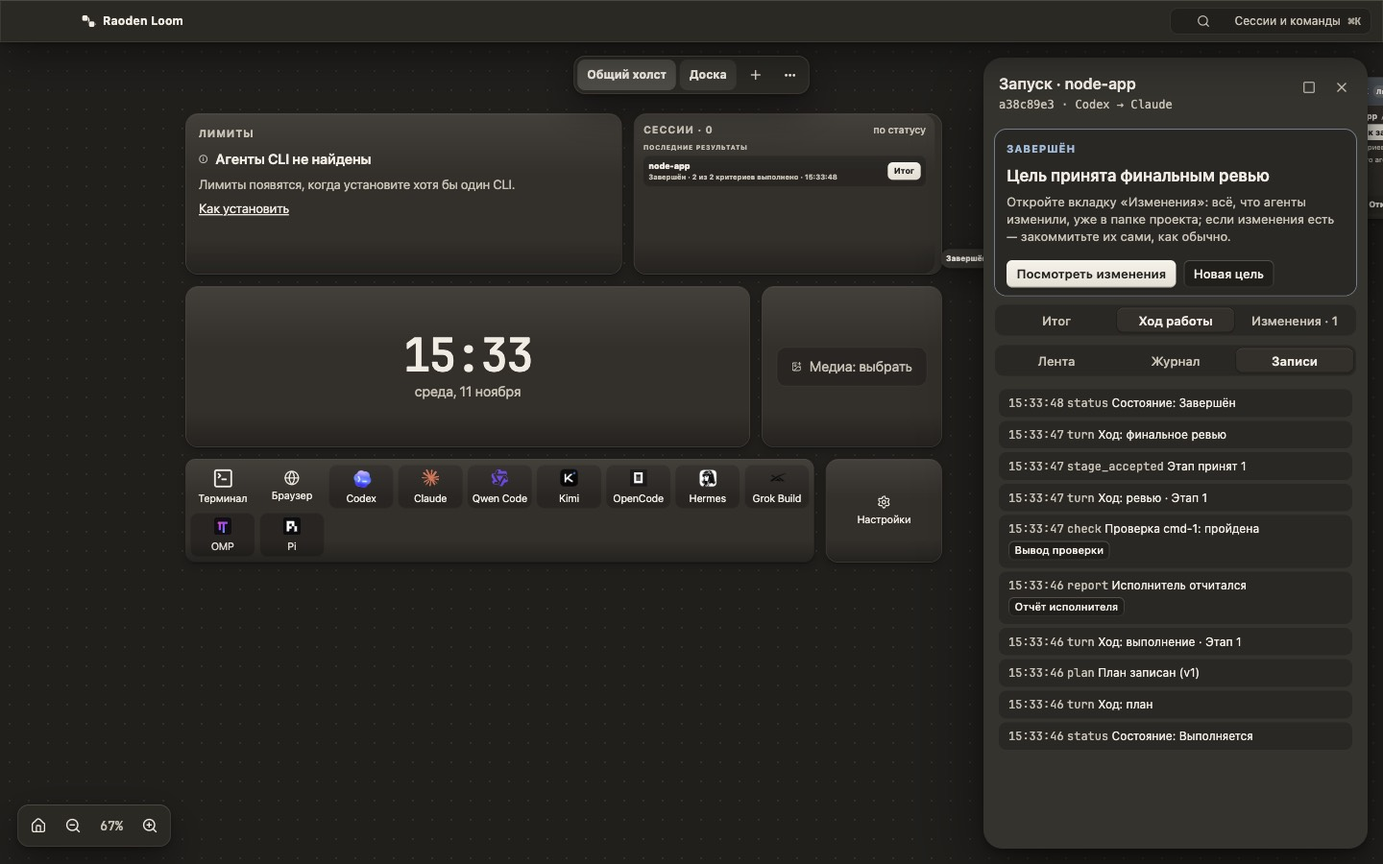
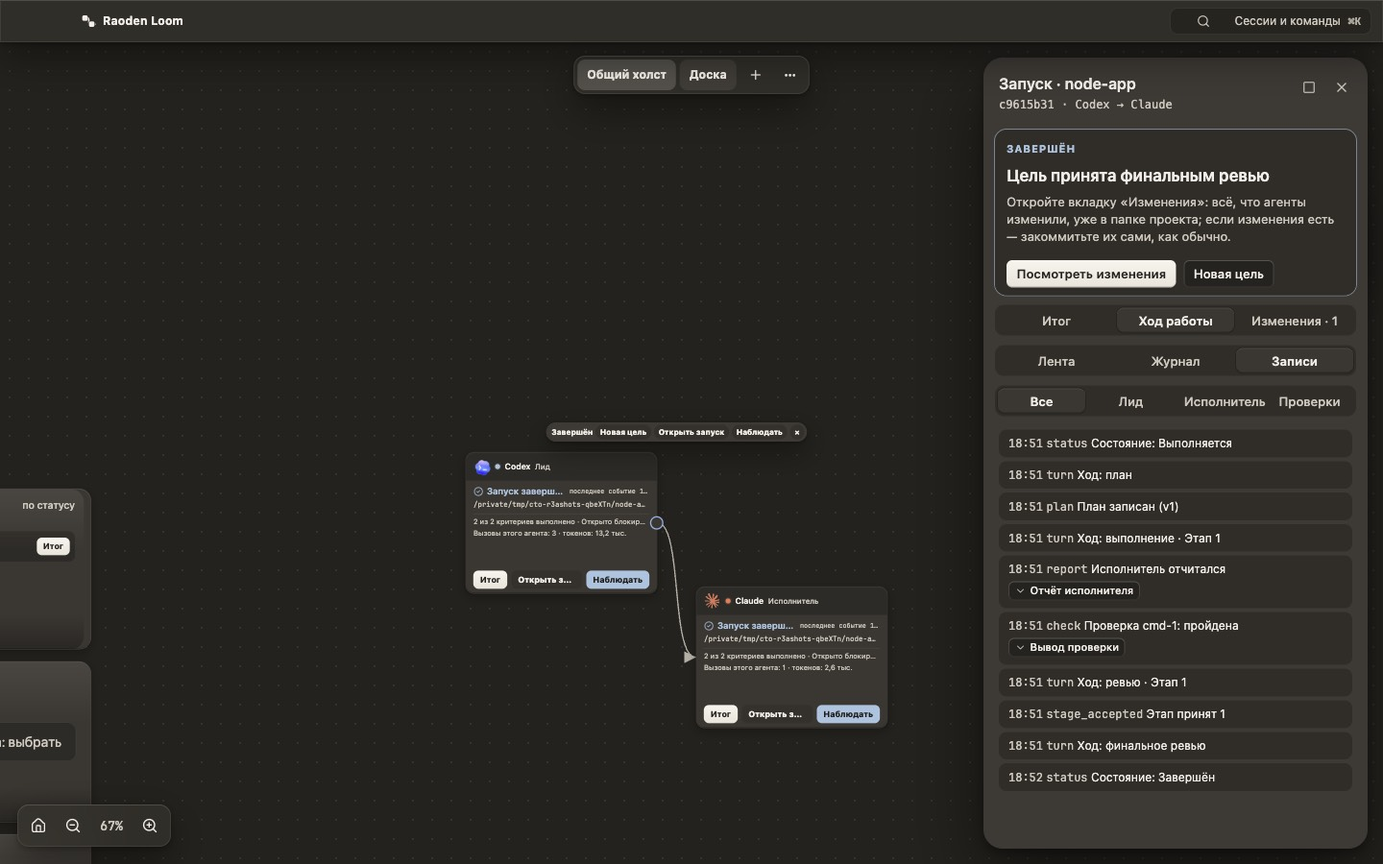
feat(redesign): R5h-A - stage lists under the pause zones, records in order with a role filter, the feed without the application's own lines, rounds and compact time in the limit table, exit code of a failed run; frames show the loaded result and changes

diff --git a/src/renderer/src/features/orchestration/RunPanel.tsx b/src/renderer/src/features/orchestration/RunPanel.tsx
@@ -52,6 +52,7 @@ import {
   finishStatus,
   formatText,
   historyLines,
+  lineRole,
   outcomeOf,
   parsePlan,
   causeText,
@@ -87,7 +88,7 @@ import {
   type RunDigest,
   type ResultFacts
 } from "./runModel";
-import { duration, findingsLine, finishText, isServiceEntry, outcomeKey, personDecisionsLine, readJournal, reportParts, saidKey, summaryModel, type ReportParts, type RunJournalState, type TextRef } from "./runStatus";
+import { duration, spanText, findingsLine, finishText, isServiceEntry, outcomeKey, personDecisionsLine, readJournal, reportParts, saidKey, summaryModel, type ReportParts, type RunJournalState, type TextRef } from "./runStatus";
 import { pickDocs, planDoc, readCreatedFile, resultDoc, toMarkdown, type CreatedDocs, type CreatedFile, type DocInput, type Loaded, type PlanEntry, type PlanJson, type RunDoc } from "./runDocs";
 import type { PanelRole, PanelState } from "./useAgentCanvasUi";
 import type { PanelMode, PanelSection, PanelTab, PanelView } from "./panelTabs";
@@ -241,7 +242,7 @@ function LineDetails({ runId, text, dropped, locale }: { runId: string; text: Li
   return (
     <div className="orch-details">
       <button type="button" className="orch-details__toggle" aria-expanded={open} onClick={toggle}>
-        {t(locale, (open ? "orchHide" : `orchShow_${text.kind}`) as TranslationKey)}
+        <UiIcon name="chevron" size={12} />{t(locale, (open ? "orchHide" : `orchShow_${text.kind}`) as TranslationKey)}
       </button>
       {open && (
         <div className="orch-details__body" data-details-state={!text.ref ? "missing" : state?.kind ?? "loading"}>
@@ -282,8 +283,10 @@ function phaseText(locale: LocaleId, p: ParticipantState, now: number): string {
 
 // ---------- activity feed ----------
 
-const LOG_KINDS = new Set(["stderr", "error", "process_started", "process_exited", "usage", "truncated", "session", "check_output", "turn_finished", "refusal"]);
-export const FEED_KINDS = new Set(["task_sent", "process_started", "process_exited", "session", "thinking", "message", "tool_started", "tool_finished", "file_read",
+const LOG_KINDS = new Set(["task_sent", "stderr", "error", "process_started", "process_exited", "usage", "truncated", "session", "check_output", "turn_finished", "refusal"]);
+// R5h-A (mock-up 20): the feed has the work (thoughts, tools, files, messages) and what needs the person; the application's own lines
+// (task sent, process started and exited, session) are in «Журнал»
+export const FEED_KINDS = new Set(["thinking", "message", "tool_started", "tool_finished", "file_read",
   "file_changed", "subagent", "refusal", "error", "turn_finished", "check_started", "check_finished", "status", "truncated",
   "permission_requested", "permission_decided", "permission_applied", "prepare_started", "prepare_finished", "external_action", "report_note"]);
 
@@ -712,8 +715,8 @@ function Section({ id, title, aside, attrs, children }: { id: string; title?: st
   );
 }
 // a row of a plate: the name on the left, the value (the same line) on the right
-function Row({ label, mark, dd, children, attrs }: { label: React.ReactNode; mark?: "done" | "idle" | "failed" | "paused"; dd?: Record<string, string | undefined>; children?: React.ReactNode; attrs?: Record<string, string | undefined> }): React.JSX.Element {
-  return <div className="orch-kv__row" {...attrs}><dt>{mark && <UiIcon name={`status-${mark}`} size={14} />}{label}</dt><dd {...dd}>{children}</dd></div>;
+function Row({ label, mark, dd, children, attrs }: { label: React.ReactNode; mark?: "done" | "idle" | "failed" | "paused" | "waiting"; dd?: Record<string, string | undefined>; children?: React.ReactNode; attrs?: Record<string, string | undefined> }): React.JSX.Element {
+  return <div className="orch-kv__row" {...attrs}><dt>{mark && <UiIcon name={mark === "waiting" ? "bell" : `status-${mark}`} size={14} />}{label}</dt><dd {...dd}>{children}</dd></div>;
 }
 
 // Journal v2, A2 (journal-v2-format.md §2.7): each requirement with the conditions that prove it, the status of each and
@@ -827,10 +830,11 @@ const fill = (s: string, vars: Record<string, string | number>): string => Objec
 // D-018: the summary as the mock-ups 13 and 17 draw it — the plates of what the run ended with (stages, checks, the review),
 // then the blocks: result facts, plan, decisions on findings, the people / time (the panel's `middle`), the result. Only what the
 // journal has: a block with nothing to say is not drawn.
-function RunSummary({ orch, runId, view, records, locale, incomplete, facts, onOpen, middle, alerts }: {
+function RunSummary({ orch, runId, view, records, locale, incomplete, facts, onOpen, middle, alerts, list }: {
   orch: Orchestration; runId: string; view: OrchestrationRunView; records: readonly OrchestrationHistoryRecord[];
   locale: LocaleId; incomplete: boolean; facts: ResultFacts;
   onOpen(section: "plan" | "result"): void; middle?: React.ReactNode; alerts?: React.ReactNode;
+  list?: boolean; // R5h-A (mock-ups 02, 03, 07): only the list of the stages with their states, for the work tab of a paused run
 }): React.JSX.Element {
   // Every plan's titles (a replan names the stages from its firstStage on), read through the shared text cache.
   const planShas = useMemo(() => records.filter((r) => r.type === "plan.recorded")
@@ -883,26 +887,44 @@ function RunSummary({ orch, runId, view, records, locale, incomplete, facts, onO
     return m.checks.filter((c) => c.status !== "passed" && c.status !== "not_run" && c.status !== "running")
       .map((c) => ({ id: c.id, title: c.title, status: c.status, cls: progress?.checks.find((x) => x.id === c.id)?.class ?? null, reason: reasons.get(c.id) ?? null }));
   }, [m.checks, records, progress?.checks]);
+  // R5h-A (D-026, mock-ups 02, 03, 05, 07, 12, 14): under the zone of a pause, where the run stands — the plan, the stages up to the
+  // one that waits, the commands asked, the check the sandbox refused; only what the journal has
+  const waiting = !finished && (view.status === "paused" || !!view.permission);
+  const waitKey = view.permission ? (view.permission.kind === "question" ? "orchRowWait_answer" : "orchRowWait_you") : view.status === "paused" ? "orchRowWait_paused" : view.status === "failed" ? "orchRowWait_failed" : null;
+  const stageRows = (): React.ReactNode => {
+    const stages = m.stages ?? [];
+    const current = stages.find((st) => st.n === view.stage) ?? stages.find((st) => st.state !== "done");
+    const upTo = current ? stages.filter((st) => st.n <= current.n) : stages;
+    return <>
+      {stages.length > 0 && !stages.some((st) => st.state === "done") && <Row label={t(locale, "orchRowPlanApproved")} mark="done" attrs={{ "data-pause-row": "plan" }} />}
+      {upTo.map((st) => st === current && waitKey
+        ? <Row key={st.n} label={`${t(locale, "orchStage")} ${st.n}${st.title ? ` · ${st.title}` : ""}`} mark={waitKey === "orchRowWait_paused" ? "paused" : waitKey === "orchRowWait_failed" ? "failed" : "waiting"} attrs={{ "data-pause-row": "stage", "data-stage-n": String(st.n) }}>{t(locale, waitKey)}</Row>
+        : <Row key={st.n} label={`${t(locale, "orchStage")} ${st.n}${st.title ? ` · ${st.title}` : ""}`} mark={st.state === "done" ? "done" : "idle"} attrs={{ "data-pause-row": "stage", "data-stage-n": String(st.n) }} />)}
+    </>;
+  };
+  const refusedRows = (): React.ReactNode => (failedChecks.length > 0
+    ? failedChecks.map((c) => <Row key={c.id} label={c.title} mark="failed" attrs={{ "data-sum-failed-check": c.id, "data-check-class": c.cls ?? undefined }}>{[c.cls ? tr(locale, `orchClass_${c.cls}`) : null, c.reason && known(locale, `orchCheckReason_${c.reason}`) ? tr(locale, `orchCheckReason_${c.reason}`) : c.reason].filter(Boolean).join(" · ")}</Row>)
+    : view.refused ? <Row label={view.refused.command} mark="failed" attrs={{ "data-sum-failed-check": view.refused.checkId }}>{tr(locale, "orchClass_sandbox")}</Row> : null);
+  const ownList = waiting && ["awaiting_checks_decision", "check_needs_permissions", "awaiting_finish_confirmation"].includes(view.reason ?? ""); // drawn by their rows only (mock-ups 05, 12, 14)
+  const shownRows = view.reason === "awaiting_checks_decision" && ownList
+    ? <><Row label={t(locale, "orchRowPlanApproved")} mark="done" attrs={{ "data-pause-row": "plan" }} /><Row label={t(locale, "orchRowChecksProposal")} mark="waiting" attrs={{ "data-pause-row": "checks" }}>{t(locale, "orchRowWait_decision")}</Row></>
+    : refusedRows();
+  const rowsKind = view.reason === "awaiting_checks_decision" && ownList ? "pause" : "failed-checks";
+  if (list) return <dl className="orch-kv orch-kv--pause" data-orch-pause-list>{stageRows()}</dl>;
   const person = personDecisionsLine(locale, view);
   const hasPlanDoc = planShas.length > 0 || records.some((r) => r.type.startsWith("decomposition."));
   return (
     <div className="orch-summary-view" data-orch-run-summary data-outcome={outcome} data-incomplete={incomplete ? "yes" : "no"}>
-      <dl className="orch-kv orch-kv--status" data-sum="outcome">
+      {!(ownList && view.reason !== "awaiting_finish_confirmation") && <dl className="orch-kv orch-kv--status" data-sum="outcome">
         {stagesText && <Row label={t(locale, "orchSum_stages")} mark={m.complete && m.stageCounts && m.stageCounts.done === m.stageCounts.total ? "done" : "idle"}
           dd={{ "data-sum-stage-count": "", "data-partial": m.complete ? undefined : "yes" }}>{stagesText}</Row>}
         {checksText && <Row label={t(locale, "orchSum_checks")} mark={m.checks.length === 0 ? "idle" : m.complete && m.checkCounts.passed === m.checkCounts.total ? "done" : "idle"}
           dd={{ "data-sum-check-count": "", "data-checks-known": m.checksKnown ? "yes" : "no", ...(outcome === "completed_no_checks" ? { "data-sum-no-checks": "" } : {}) }}>{checksText}</Row>}
         {finished && <Row label={reviewed ? t(locale, "orchSumReviewFinal") : t(locale, "orchResult")} mark={reviewed ? "done" : outcome === "failed" ? "failed" : outcome === "paused" || outcome === "active" ? "paused" : "idle"}
           dd={{ "data-sum-outcome": outcome, "data-orch-proof": outcome, "data-orch-result": m.finalVerdict ?? undefined }}>{reviewed ? t(locale, "orchSumAccepted") : said(`orchSumOutcome_${outcome}`)}</Row>}
-      </dl>
-      {failedChecks.length > 0 && (
-        <ul className="orch-sum__failed" data-sum-failed-checks>
-          {failedChecks.map((c) => (
-            <li key={c.id} className="orch-hint" data-sum-failed-check={c.id} data-check-class={c.cls ?? undefined}>
-              {c.title} — {tr(locale, `orchCheck_${c.status}`)}{c.cls ? ` · ${tr(locale, `orchClass_${c.cls}`)}` : ""}{c.reason ? ` · ${c.reason}` : ""}
-            </li>
-          ))}
-        </ul>
+      </dl>}
+      {shownRows && (ownList ? view.reason !== "awaiting_finish_confirmation" : failedChecks.length > 0) && (
+        <dl className="orch-kv orch-kv--pause" data-sum={rowsKind} data-sum-failed-checks={rowsKind === "failed-checks" ? "" : undefined}>{shownRows}</dl>
       )}
       {person && <p className="orch-hint orch-hint--warn" data-sum-person>{person}</p>}
 
@@ -926,7 +948,7 @@ function RunSummary({ orch, runId, view, records, locale, incomplete, facts, onO
         </Section>
       )}
 
-      {((m.stages && m.stages.length > 0) || progress?.conditions || hasPlanDoc) && ( // a split that was refused has no stages, but its reasons are in the plan document
+      {!ownList && ((m.stages && m.stages.length > 0) || progress?.conditions || hasPlanDoc) && ( // a split that was refused has no stages, but its reasons are in the plan document
         <Section id="stages" title={finished || !m.stages?.length ? t(locale, "orchPlan") : undefined} aside={(finished || !m.stages?.length) &&
           <span className="orch-sum-block__aside">
             {planShas.map((sha, i) => <span key={sha} className={`orch-chip${i === planShas.length - 1 ? " orch-chip--on" : ""}`}>v{i + 1}</span>)}
@@ -1326,11 +1348,11 @@ function costText(locale: LocaleId, cost: Cost, reviewer: boolean): string {
 
 // UX audit 2026-10-05, Н7: the limit pause — each limit's value and what is used of it (limitRows), the new value with
 // its unit, and «Raise the limit and continue» as the main action. The limit the run stopped at is chosen first.
-function RaiseLimit({ locale, cost, budget, sending, onRaise }: {
-  locale: LocaleId; cost: Cost | null; budget: NonNullable<NonNullable<OrchestrationRunView["progress"]>["budget"]> | null; sending: boolean;
+function RaiseLimit({ locale, cost, budget, rounds, sending, onRaise }: {
+  locale: LocaleId; cost: Cost | null; rounds: number | null; budget: NonNullable<NonNullable<OrchestrationRunView["progress"]>["budget"]> | null; sending: boolean;
   onRaise(kind: OrchestrationLimitKind, value: number): void;
 }): React.JSX.Element {
-  const rows = cost && budget ? limitRows(cost, budget) : [];
+  const rows = cost && budget ? limitRows(cost, budget, rounds) : [];
   const nowOf = (k: OrchestrationLimitKind) => rows.find((r) => r.kind === k)?.now ?? null;
   const proposed = (k: OrchestrationLimitKind) => { const c = nowOf(k); return c !== null ? String(Math.ceil(c * 1.5)) : ""; }; // half as much again
   const [kind, setKind] = useState<OrchestrationLimitKind>(cost?.reached ?? "turns");
@@ -1347,9 +1369,9 @@ function RaiseLimit({ locale, cost, budget, sending, onRaise }: {
     <div className="orch-limit" data-orch-limit>
       {rows.length > 0 && (
         <dl className="orch-kv orch-limit__table">
-          {rows.filter((r) => r.reached || r.kind === "turns" || r.kind === "runMs" || (r.used ?? 0) > 0).map((r) => {
+          {[...rows.filter((r) => r.reached || r.kind === "turns" || r.kind === "runMs" || (r.used ?? 0) > 0)].sort((a, b) => ["turns", "roundsPerStage", "runMs", "replans"].indexOf(a.kind) - ["turns", "roundsPerStage", "runMs", "replans"].indexOf(b.kind)).map((r) => { // mock-up 07: turns, rounds, time
             const time = r.kind === "runMs"; // mock-up 07: the time as «1 ч 12 м / 4 ч»
-            const fmt = (n: number) => (time ? duration(locale, n * 60_000) : String(n));
+            const fmt = (n: number) => (time ? spanText(locale, n * 60_000) : String(n));
             return (
               <Row key={r.kind} label={time ? t(locale, "orchSumTime") : t(locale, `orchLimit_${r.kind}` as TranslationKey)}
                 attrs={{ "data-limit-kind": r.kind, "data-limit-reached": r.reached ? "" : undefined, className: `orch-kv__row${r.reached ? " orch-limit__reached" : ""}` }}>
@@ -1398,7 +1420,9 @@ function CurrentRunPanel({ orch, runId, locale, panel, onClose, onNewGoal, onPro
   const planTotal = plan.length ? planFirst - 1 + plan.length : 0;
   const goal = useMemo(() => { try { return goalText ? JSON.parse(goalText) as { limits?: Record<string, number>; createdAt?: number } : null; } catch { return null; } }, [goalText]);
   const reportedDone = useMemo(() => { try { const r = reportText ? JSON.parse(reportText) as { done?: unknown } : null; return typeof r?.done === "boolean" ? r.done : null; } catch { return null; } }, [reportText]);
-  const lines = useMemo(() => historyLines(records).reverse(), [records]);
+  // mock-up 07: the rounds the stage in hand has used (the journal counts them per turn)
+  const stageRounds = useMemo(() => records.reduce((max, r) => (r.type === "orch.turn" && r.data.stage === view?.stage && typeof r.data.round === "number" ? Math.max(max, r.data.round) : max), 0) || null, [records, view?.stage]);
+  const lines = useMemo(() => historyLines(records), [records]); // mock-up 20: in the order they happened
   const now = useNow();
   const [expanded, setExpanded] = useState(false);
   // The run ended while the person watched another tab: offer the summary, never switch or scroll by itself.
@@ -1650,12 +1674,15 @@ function CurrentRunPanel({ orch, runId, locale, panel, onClose, onNewGoal, onPro
   // a newer version's run: its changes are not read here (main refuses them), so there is no tab for them
   const tabs: PanelTab[] = view?.newer ? ["summary", "work"] : ["summary", "work", "changes"];
   const curTab: PanelTab = tabs.includes(panel.tab) ? panel.tab : "summary"; // a readable newer run has no Changes tab
-  const roleFilter = useCallback((e: OrchestrationActivityEntry) => panel.role === "all" ? FEED_KINDS.has(e.kind)
+  const roleFilter = useCallback((e: OrchestrationActivityEntry) => (e.kind === "turn_finished" && e.text === "completed") ? false : panel.role === "all" ? FEED_KINDS.has(e.kind)
     : panel.role === "check"
     ? (e.role === "check" || e.role === "run") && FEED_KINDS.has(e.kind)
     : (e.role === panel.role && FEED_KINDS.has(e.kind)) || (e.role === "run" && e.kind === "status"), [panel.role]);
   const logFilter = useCallback((e: OrchestrationActivityEntry) => (panel.role === "all" || (panel.role === "check" ? e.role === "check" : e.role === panel.role))
     && (LOG_KINDS.has(e.kind) || (e.kind === "tool_finished" && typeof e.detail?.output === "string")), [panel.role]);
+  // R5h-A (mock-ups 02, 03, 07, 18): a run that waits for the person, is paused or failed: the stages and where it stands over the feed
+  const stagesAbove = (!!view?.permission || view?.status === "paused" || view?.status === "failed") && records.length > 0;
+  const feedEmpty = !activity.entries.some(roleFilter);
   const selected = panel.role === "lead" ? lead : panel.role === "executor" ? executor : panel.role === "reviewer" ? reviewer : null;
 
   // R5b: the header names the project and the pair of agents (lead -> executor) of the link the run belongs to
@@ -1693,7 +1720,7 @@ function CurrentRunPanel({ orch, runId, locale, panel, onClose, onNewGoal, onPro
       </Section>
       <Section id="limits" title={t(locale, "orchSumTimeEnv")} attrs={{ "data-orch-limits": "" }}>
         <dl className="orch-kv">
-          {d.createdAt && <Row label={t(locale, "orchSumTime")}>{duration(locale, (busy ? now : Date.parse(lines[0]?.ts ?? d.createdAt)) - Date.parse(d.createdAt))}{goal?.limits?.runMs ? ` / ${duration(locale, goal.limits.runMs)}` : ""}</Row>}
+          {d.createdAt && <Row label={t(locale, "orchSumTime")}>{spanText(locale, (busy ? now : Date.parse(lines.at(-1)?.ts ?? d.createdAt)) - Date.parse(d.createdAt))}{goal?.limits?.runMs ? ` / ${spanText(locale, goal.limits.runMs)}` : ""}</Row>}
           <Row label={t(locale, "orchSumTurnsRounds")}>{view.turns}{goal?.limits?.turns ? ` / ${goal.limits.turns}` : ""}{goal?.limits?.roundsPerStage ? ` · ${goal.limits.roundsPerStage}` : ""}</Row>
           {envReported.map(({ p, e }) => (
             <Row key={p} label={`${t(locale, "orchSumEnv")} · ${p === "codex" ? "Codex" : "Claude"}`} attrs={{ "data-env-provider": p }}>
@@ -1819,7 +1846,7 @@ function CurrentRunPanel({ orch, runId, locale, panel, onClose, onNewGoal, onPro
                 onDecide={(plan) => void send("plan_decide", { plan })} />
             )}
             {zone!.primary?.action === "raise_limit" && (
-              <RaiseLimit key={`${view.revision}:${cost?.reached ?? ""}`} locale={locale} cost={cost} budget={view.progress?.budget ?? null}
+              <RaiseLimit key={`${view.revision}:${cost?.reached ?? ""}`} locale={locale} cost={cost} rounds={stageRounds} budget={view.progress?.budget ?? null}
                 sending={sending || off("raise_limit")} onRaise={(kind, value) => void send("raise_limit", { limit: kind, value }, continueAfterRaise)} />
             )}
             {takenLines(locale, take).map((line) => <p key={line} className="orch-take__taken" data-orch-taken>{line}</p>)}
@@ -1857,7 +1884,7 @@ function CurrentRunPanel({ orch, runId, locale, panel, onClose, onNewGoal, onPro
               ))}
             </div>
           )}
-          {curTab === "work" && panel.mode !== "records" && (
+          {curTab === "work" && (
             <div className="orch-roles orch-seg" role="radiogroup" aria-label={t(locale, "orchObserveWho")}>
               {(["all", "lead", "executor", "check"] as const).map((role) => (
                 <button key={role} type="button" role="radio" aria-checked={panel.role === role} data-orch-role={role}
@@ -1898,7 +1925,10 @@ function CurrentRunPanel({ orch, runId, locale, panel, onClose, onNewGoal, onPro
                 </Sect>
               )}
             </>}
-            {curTab === "work" && panel.mode === "feed" && runId && (
+            {curTab === "work" && panel.mode === "feed" && runId && stagesAbove && (
+              <RunSummary list orch={orch} runId={runId} view={view} records={records} locale={locale} facts={facts} onOpen={openSection} incomplete={journal?.status !== "ready"} />
+            )}
+            {curTab === "work" && panel.mode === "feed" && runId && !(stagesAbove && feedEmpty) && (
               <ActivityList key={`a:${panel.role}`} locale={locale} entries={activity.entries} gaps={activity.gaps} filter={roleFilter}
                 emptyText={activity.status === "loading" ? t(locale, "orchLoading") : t(locale, "orchFeedEmpty")}
                 silence={selected ? silenceFor(selected) : [lead, executor, reviewer].map((x) => (x ? silenceFor(x) : null)).find(Boolean) ?? null} />
@@ -1907,13 +1937,14 @@ function CurrentRunPanel({ orch, runId, locale, panel, onClose, onNewGoal, onPro
               <ActivityList key={`l:${panel.role}`} locale={locale} entries={activity.entries} gaps={activity.gaps} filter={logFilter}
                 emptyText={t(locale, "orchLogEmpty")} silence={null} />
             )}
+            {curTab === "changes" && view.reason === "lead_modified_tree" && <p className="orch-hint" data-orch-lead-modified-why>{t(locale, "orchLeadModifiedWhy")}</p>}
             {curTab === "changes" && runId && !view.newer && <ChangesTab locale={locale} runId={runId} seq={state?.seq ?? 0} inPlace={view.workMode === "project"} />}
             {curTab === "work" && panel.mode === "records" && (
               <section className="orch-panel__section">
                 <ol className="orch-history">
-                  {lines.map((l) => (
-                    <li key={l.seq} data-history-kind={l.kind}>
-                      <time>{new Date(l.ts).toLocaleTimeString(locale)}</time> <code className="orch-history__kind">{l.kind}</code> {lineText(locale, l, activity.entries)}
+                  {lines.filter((l) => panel.role === "all" || lineRole(l) === "run" || lineRole(l) === panel.role).map((l) => (
+                    <li key={l.seq} data-history-kind={l.kind} data-history-role={lineRole(l)}>
+                      <time>{new Date(l.ts).toLocaleTimeString(locale, { hour: "2-digit", minute: "2-digit" })}</time> <code className="orch-history__kind">{l.kind}</code> {lineText(locale, l, activity.entries)}
                       {l.text && runId && <LineDetails runId={runId} text={l.text} dropped={Number(l.parts.outputDropped ?? 0)} locale={locale} />}
                     </li>
                   ))}
@@ -2112,10 +2143,9 @@ function PersonDecide({ locale, d, findings, sending, onSubmit }: {
     <Form title={t(locale, "orchPersonTitle")} attrs={{ "data-orch-person-decide": true }}>
       <div className="orch-plate">
         {items.map((it) => (
-          <section key={it.key} className="orch-decide" {...it.attrs}>
+          <section key={it.key} className="orch-decide" {...it.attrs} {...(it.key.startsWith("f:") ? { title: t(locale, "orchFindingSafeHint"), "data-finding-safe": "" } : {})}>
             <p className="orch-decide__ask"><span>{it.kind} · </span>{it.text}</p>
             {it.context}
-            {it.key.startsWith("f:") && <small className="orch-hint" data-finding-safe>{t(locale, "orchFindingSafeHint")}</small>}
             {/* biome-ignore lint/a11y/useSemanticElements: a button segment, not a form group */}
             <div className="orch-seg orch-seg--field" role="group" aria-label={`${it.kind}: ${it.text}`}>
               {it.options.map((o) => (

diff --git a/src/renderer/src/lib/i18n.ts b/src/renderer/src/lib/i18n.ts
@@ -556,7 +556,7 @@ const ru = {
   orchGoalChecks: "Проверки",
   orchGoalLimits: "Лимиты · пусто = без лимита",
   orchLimit_turns: "Ходы",
-  orchLimit_roundsPerStage: "Раундов на этап",
+  orchLimit_roundsPerStage: "Раунды на этап",
   orchLimit_replans: "Перепланирований",
   orchLimit_runMs: "Минут на запуск",
   orchReviewPlan: "Показать план перед выполнением",
@@ -2224,8 +2224,8 @@ const ru = {
   orchPause_loop_suspected_do: "Уточните задачу ниже или дайте ещё раунд.",
   orchPause_loop_suspected_button: "Дать ещё раунд",
   orchPause_lead_modified_tree_what: "Лид изменил файлы, хотя не должен был",
-  orchPause_lead_modified_tree_why: "Лид только планирует и проверяет, файлы меняет исполнитель. Продолжать такой запуск нельзя.",
-  orchPause_lead_modified_tree_do: "Остановите запуск. Во вкладке «Изменения» решите, оставить ли эти правки, затем задайте цель заново.",
+  orchPause_lead_modified_tree_why: "Продолжать нельзя.",
+  orchPause_lead_modified_tree_do: "Во вкладке «Изменения» решите, оставить ли правки, затем задайте цель заново.",
   orchPause_lead_modified_tree_button: "Остановить запуск",
   orchPause_environment_error_what: "Агенту помешало окружение",
   orchPause_environment_error_why: "Не запустилась программа агента или команда проекта: нет нужной программы, входа в аккаунт или сети.",
@@ -2579,7 +2579,18 @@ const ru = {
   orchError_mcp_warning_unchecked: "MCP-серверы Codex не проверены (нет ответа за 30 с или ответ не разобран): запуск остановится, если они включены",
   // R5h-A
   orchPersonPartial: "Принято {n} из {m}, остальные — при следующей паузе",
-  orchDisputedMore: "Доказательства проверяющего"
+  orchDisputedMore: "Доказательства проверяющего",
+  orchRowPlanApproved: "План одобрен",
+  orchRowChecksProposal: "Команды проверки",
+  orchRowWait_decision: "ждут решения",
+  orchRowWait_answer: "ждёт ответа",
+  orchRowWait_you: "ждёт вас",
+  orchRowWait_paused: "на паузе",
+  orchRowWait_failed: "упал",
+  orchLeadModifiedWhy: "Лид только планирует и проверяет, файлы меняет исполнитель.",
+  orchUnitMinShort: "м",
+  orchFailedExit: "{agent} CLI завершился с кодом {code} на этапе {n}",
+  orchFailedExitNoStage: "{agent} CLI завершился с кодом {code}"
 } as const;
 
 const en: Record<keyof typeof ru, string> = {
@@ -4803,8 +4814,8 @@ const en: Record<keyof typeof ru, string> = {
   orchPause_loop_suspected_do: "Clarify the task below or give one more round.",
   orchPause_loop_suspected_button: "Give one more round",
   orchPause_lead_modified_tree_what: "The lead changed files it must not change",
-  orchPause_lead_modified_tree_why: "The lead only plans and reviews; the executor changes the files. Such a run cannot go on.",
-  orchPause_lead_modified_tree_do: "Stop the run. On the “Changes” tab decide whether to keep these edits, then set the goal again.",
+  orchPause_lead_modified_tree_why: "The run cannot go on.",
+  orchPause_lead_modified_tree_do: "On the “Changes” tab decide whether to keep the edits, then set the goal again.",
   orchPause_lead_modified_tree_button: "Stop the run",
   orchPause_environment_error_what: "The environment got in the agent's way",
   orchPause_environment_error_why: "The agent's program or a project command did not start: a program, a sign-in or the network is missing.",
@@ -5154,7 +5165,18 @@ const en: Record<keyof typeof ru, string> = {
   orchError_mcp_warning_unchecked: "The MCP servers of Codex were not checked (no answer in 30 s, or the answer could not be read): the run stops if they are on",
   // R5h-A
   orchPersonPartial: "Accepted {n} of {m}, the rest at the next pause",
-  orchDisputedMore: "The reviewer's evidence"
+  orchDisputedMore: "The reviewer's evidence",
+  orchRowPlanApproved: "Plan approved",
+  orchRowChecksProposal: "Check commands",
+  orchRowWait_decision: "waiting for your decision",
+  orchRowWait_answer: "waiting for an answer",
+  orchRowWait_you: "waiting for you",
+  orchRowWait_paused: "paused",
+  orchRowWait_failed: "failed",
+  orchLeadModifiedWhy: "The lead only plans and reviews; the executor changes the files.",
+  orchUnitMinShort: "m",
+  orchFailedExit: "{agent} CLI exited with code {code} on stage {n}",
+  orchFailedExitNoStage: "{agent} CLI exited with code {code}"
 };
 
 export type TranslationKey = keyof typeof ru;

diff --git a/src/renderer/src/features/orchestration/runModel.ts b/src/renderer/src/features/orchestration/runModel.ts
@@ -211,6 +211,18 @@ export function historyLines(records: readonly OrchestrationHistoryRecord[]): Hi
   return out;
 }
 
+// R5h-A (mock-up 20): the role a history line belongs to, for the role filter of «Записи»; a status, a limit, a recovery or the
+// preparation belongs to the run itself and is shown under every role, as the feed shows the status
+export function lineRole(l: HistoryLine): "lead" | "executor" | "check" | "run" {
+  switch (l.kind) {
+    case "report": return "executor";
+    case "turn": case "turn_failed": return l.parts.purpose === "execute" ? "executor" : "lead";
+    case "check": return "check";
+    case "status": case "recovered": case "limit": case "prepare_started": case "prepare_finished": return "run";
+    default: return "lead";
+  }
+}
+
 // How a loaded text is shown: findings as a list, a report by its summary and the rest, check output as it is.
 export function formatText(kind: LineText["kind"], text: string): { items: string[]; body: string } {
   if (kind === "output") return { items: [], body: text };
@@ -749,8 +761,11 @@ export function actionZone(locale: LocaleId, view: OrchestrationRunView, entries
     case "stopped": case "failed": {
       const cause = viewCause(view, entries);
       const lastError = [...entries].reverse().find((e) => e.kind === "error" && e.text)?.text.slice(0, 600) ?? null;
+      // R5h-A (mock-up 18): a CLI that exited with a code — said with the code and the stage, as the activity recorded them
+      const exit = status === "failed" ? [...entries].reverse().find((e) => e.kind === "process_exited" && typeof e.detail?.code === "number" && e.detail.code !== 0) : undefined;
+      const exitTitle = exit?.provider ? L(view.stage !== null && view.stage !== undefined ? "orchFailedExit" : "orchFailedExitNoStage").replace("{agent}", providerName(exit.provider)).replace("{code}", String(exit.detail?.code)).replace("{n}", String(view.stage)) : null;
       // R5a: the cause is the headline (the mock-up's "Claude CLI exited with code 1 on stage 2"); no cause - the state's own words
-      return state(status, status, { eyebrow: L(`orchEyebrow_${status}`), ...(cause ? { title: causeText(locale, cause) } : {}), ...(status === "failed" && lastError ? { detail: lastError } : {}), footer: [b("copy_id", L("orchZone_copyId"))],
+      return state(status, status, { eyebrow: L(`orchEyebrow_${status}`), ...(exitTitle ? { title: exitTitle } : cause ? { title: causeText(locale, cause) } : {}), ...(status === "failed" && lastError ? { detail: lastError } : {}), footer: [b("copy_id", L("orchZone_copyId"))],
         primary: b("open_journal", L("orchZone_openJournal")), secondary: [b("new_goal", L("orchNewGoal"))] });
     }
   }
@@ -1111,7 +1126,7 @@ export function costOf(view: OrchestrationRunView, entries: readonly Orchestrati
 // person types (minutes for the run's time). used null: no single number (rounds are counted per stage).
 export const LIMIT_KINDS: readonly OrchestrationLimitKind[] = ["turns", "runMs", "replans", "roundsPerStage"];
 export interface LimitRow { kind: OrchestrationLimitKind; now: number; used: number | null; reached: boolean }
-export function limitRows(cost: Cost, budget: NonNullable<NonNullable<OrchestrationRunView["progress"]>["budget"]>): LimitRow[] {
+export function limitRows(cost: Cost, budget: NonNullable<NonNullable<OrchestrationRunView["progress"]>["budget"]>, rounds: number | null = null): LimitRow[] {
   const minutes = (ms: number) => Math.round(ms / 60_000);
   return LIMIT_KINDS.map((kind) => ({
     kind, reached: cost.reached === kind,
@@ -1119,7 +1134,7 @@ export function limitRows(cost: Cost, budget: NonNullable<NonNullable<Orchestrat
     used: kind === "turns" ? budget.used.turns : kind === "replans" ? budget.used.replans
       : kind === "runMs" ? (cost.elapsedMs === null ? null : Math.ceil(cost.elapsedMs / 60_000))
         // rounds are counted per stage: known only for the stage that reached its limit
-        : cost.reached === "roundsPerStage" ? budget.limits.roundsPerStage : null
+        : cost.reached === "roundsPerStage" ? budget.limits.roundsPerStage : rounds
   }));
 }
 

diff --git a/src/renderer/src/styles/app.css b/src/renderer/src/styles/app.css
@@ -2004,3 +2004,12 @@ button { border: 0; }
 .orch-rows button.orch-rows__add { align-self: flex-start; min-height: var(--control-h-m); padding: 0 8px; }
 .orch-rows button.orch-rows__x:hover, .orch-rows button.orch-rows__add:hover { background: transparent; color: var(--text-primary); }
 .orch-rows button.orch-rows__x:focus-visible, .orch-rows button.orch-rows__add:focus-visible { outline: 0; box-shadow: 0 0 0 3px color-mix(in srgb, var(--focus) 30%, transparent); }
+
+/* R5h-A: the list of a pause (mock-ups 02, 03, 05, 07, 12, 14), the chevron of a record */
+.orch-kv--pause + .orch-kv--pause, .orch-kv--status + .orch-kv--pause { margin-top: 8px; }
+.orch-kv--pause .ui-icon--bell { color: var(--status-waiting); }
+.orch-kv--pause .ui-icon--status-failed { color: var(--status-failed); }
+.orch-kv--pause .orch-kv__row:has(.ui-icon--bell) dd { color: var(--text-primary); }
+.orch-details__toggle { display: inline-flex; align-items: center; gap: 4px; }
+.orch-details__toggle .ui-icon { transition: transform .12s ease; }
+.orch-details__toggle[aria-expanded="true"] .ui-icon { transform: rotate(180deg); }

diff --git a/src/renderer/src/features/orchestration/runStatus.ts b/src/renderer/src/features/orchestration/runStatus.ts
@@ -35,6 +35,14 @@ export function duration(locale: LocaleId, ms: number): string {
   return m < 60 ? `${m} ${min} ${s % 60} ${sec}` : `${Math.floor(m / 60)} ${h} ${m % 60} ${min}`;
 }
 
+// R5h-A (mock-ups 07, 13): a time span as «1 ч 12 м»: hours and minutes, no seconds and no zero minutes
+export function spanText(locale: LocaleId, ms: number): string {
+  const m = Math.max(0, Math.round(ms / 60_000));
+  if (m < 1) return duration(locale, ms);
+  const [min, h] = [t(locale, "orchUnitMinShort"), t(locale, "orchUnitHour")];
+  return m < 60 ? `${m} ${min}` : m % 60 === 0 ? `${m / 60} ${h}` : `${Math.floor(m / 60)} ${h} ${m % 60} ${min}`;
+}
+
 // A service event of a CLI (Codex hooks): kept in the full feed, folded by default.
 export const isServiceEntry = (e: OrchestrationActivityEntry): boolean =>
   (e.kind === "tool_started" || e.kind === "tool_finished") && e.detail?.tool === "hook";
